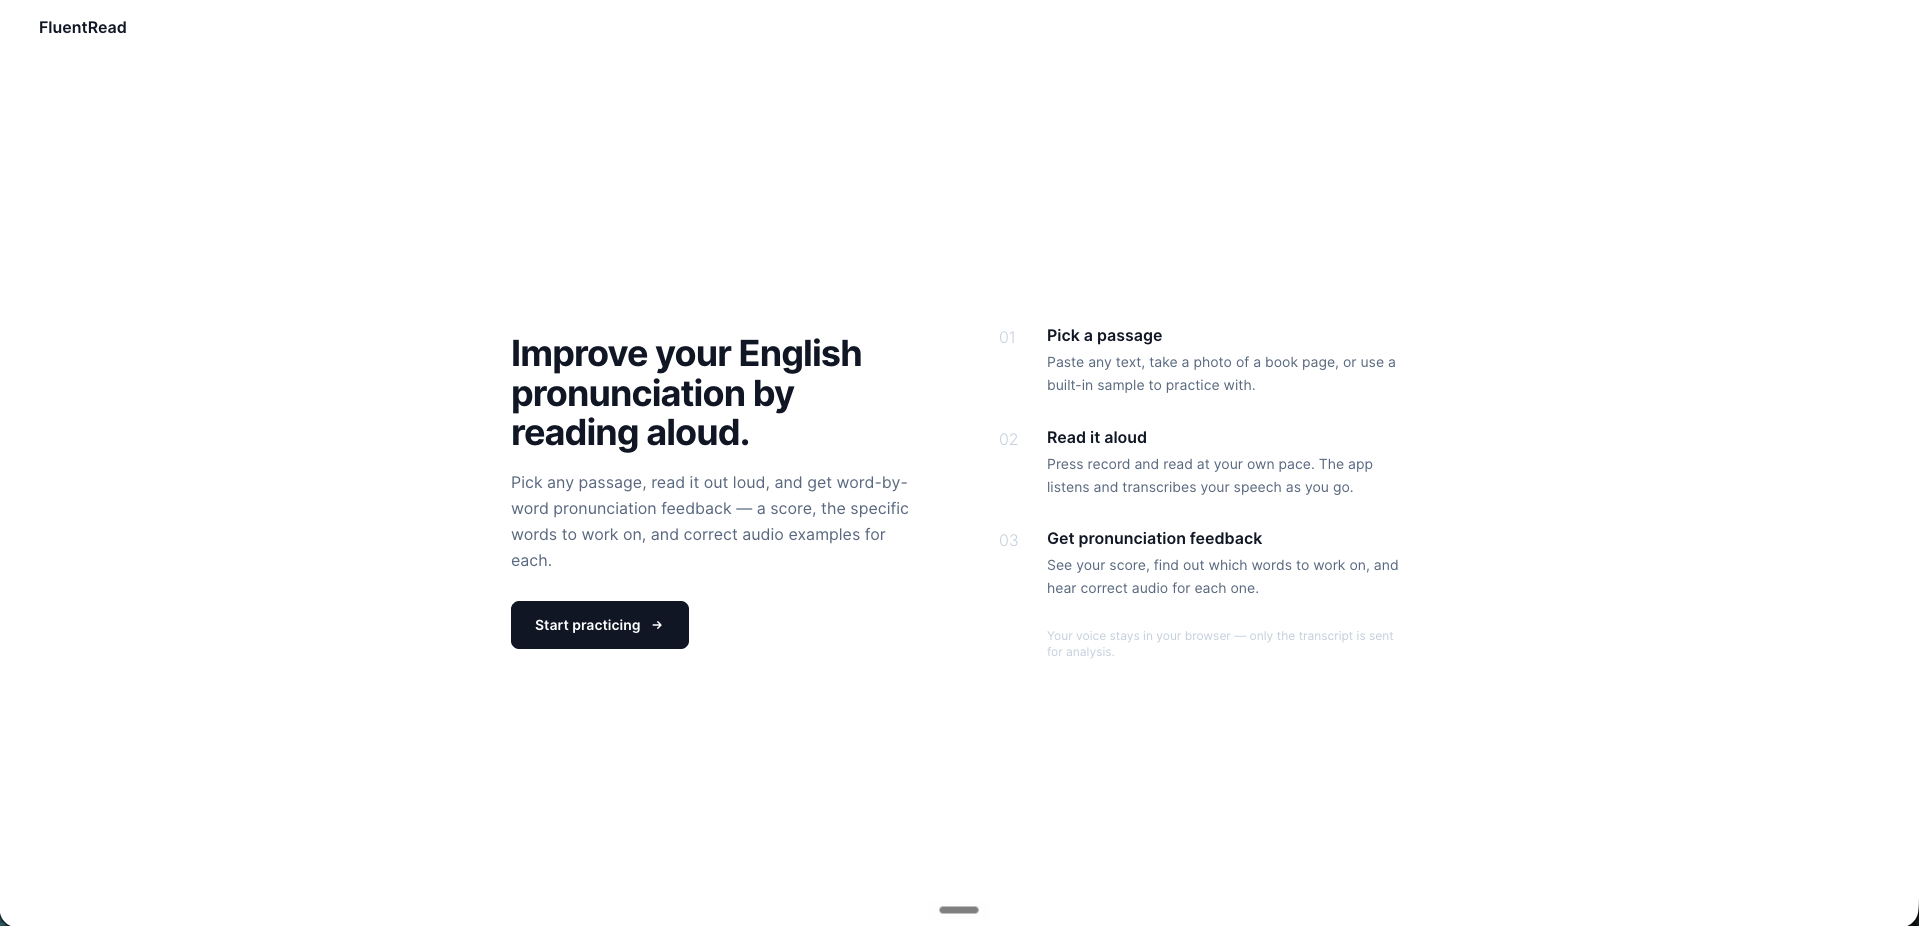
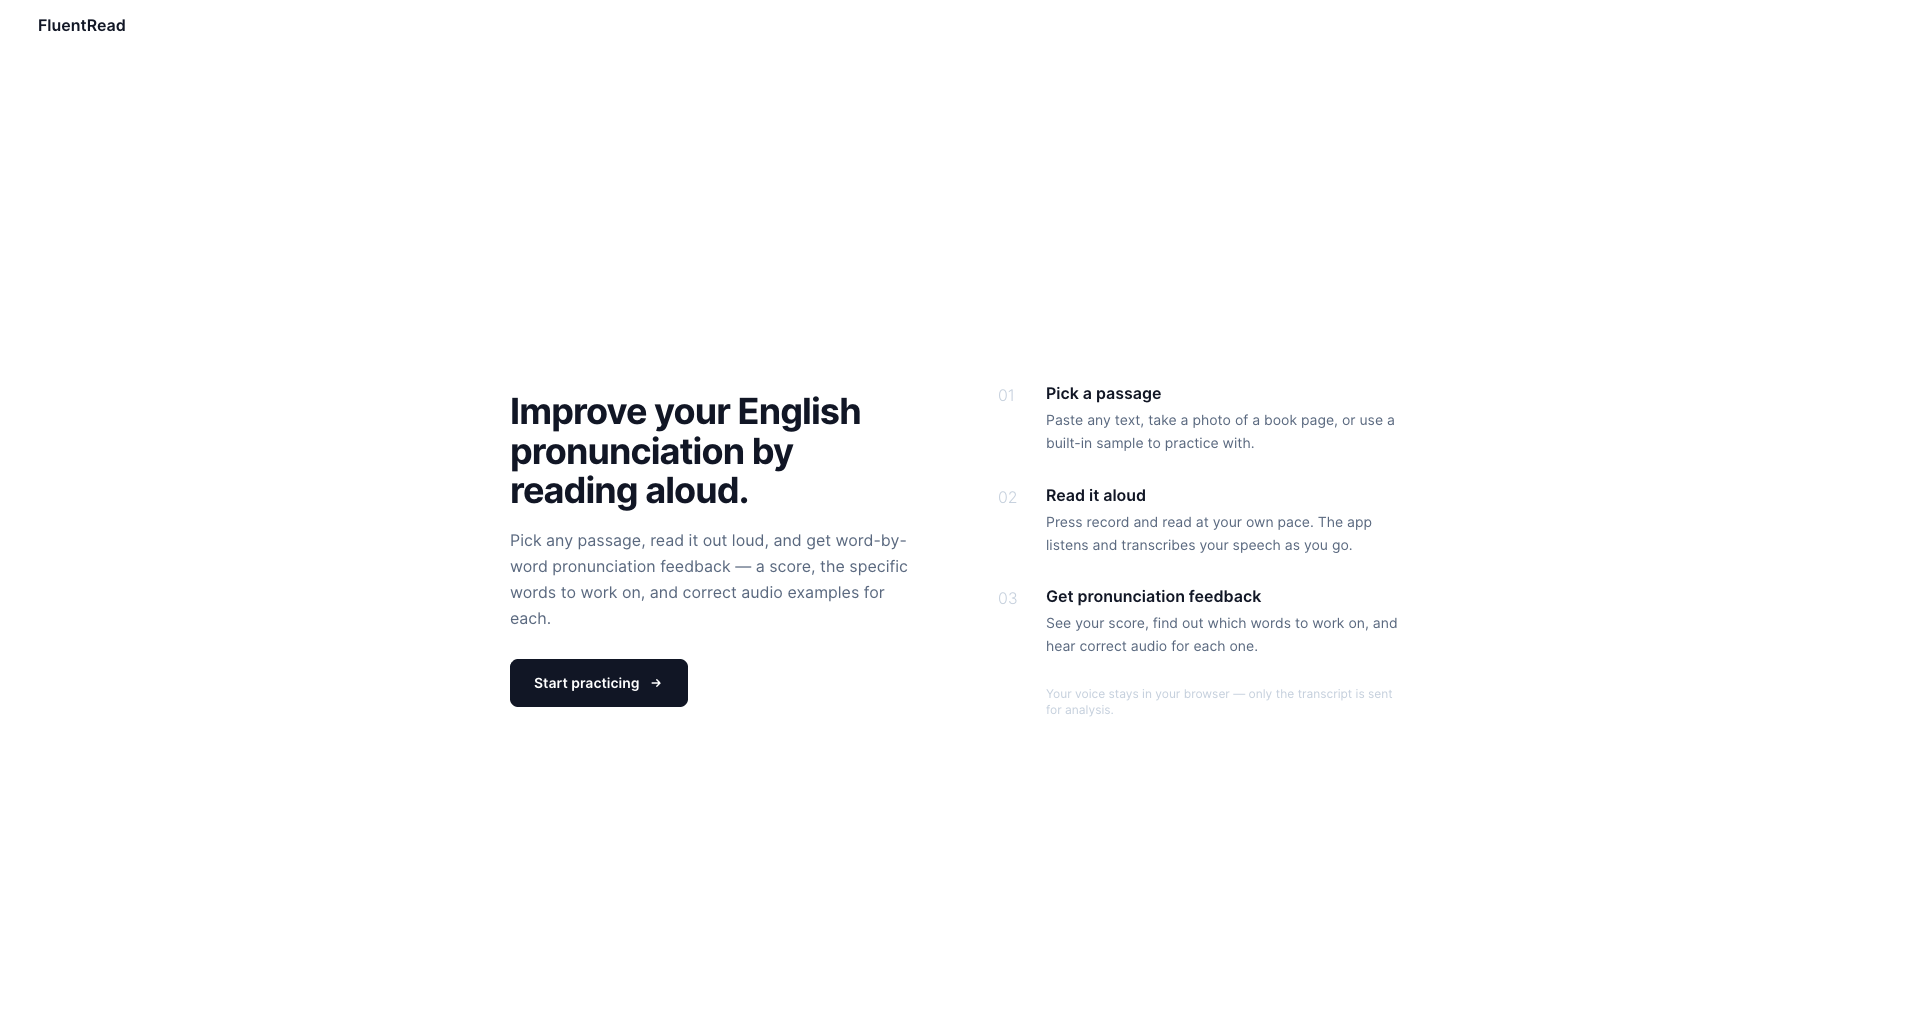
Make project card images uniform with fixed aspect ratio + object-cover
Project screenshots have differing aspect ratios (2.19 / 1.78 / 1.87), so the
previous `min-h-60` + `object-contain` setup letterboxed each image
differently, producing uneven gray margins that varied per card. Switch the
image area to a fixed 16:10 aspect ratio with `object-cover` so every card
renders identically regardless of the source image size, and add a card
border + divider so light screenshots read as framed cards against the white
page. Also refreshes the OV Portfolio and FluentRead screenshots.

diff --git a/components/projects/ProjectCard.tsx b/components/projects/ProjectCard.tsx
@@ -22,13 +22,14 @@ export default function ProjectCard({
   github_link,
 }: ProjectCardProps) {
   return (
-    <article className="flex flex-col gap-2 rounded-xl bg-surface/20 pb-6 md:flex-1">
-      {/* Image */}
-      <div className="relative min-h-60 w-full rounded-xl">
+    <article className="flex flex-col gap-2 overflow-hidden rounded-xl border border-surface bg-surface/20 pb-6 md:flex-1">
+      {/* Fixed aspect ratio + object-cover keeps every card uniform regardless
+          of the source image's dimensions (no letterboxing / uneven margins). */}
+      <div className="relative aspect-[16/10] w-full border-b border-surface bg-surface">
         <Image
           src={image}
           alt={title}
-          className="rounded-lg object-contain"
+          className="object-cover object-top"
           fill
           sizes="(max-width: 768px) 100vw, 50vw"
         />

diff --git a/components/sections/Projects.tsx b/components/sections/Projects.tsx
@@ -1,6 +1,6 @@
 import ProjectCard, { ProjectCardProps } from "../projects/ProjectCard"
 import SectionTitle from "../shared/SectionTitle"
-import portfolioImage from "@/assets/images/OV_Portfolio_picture.png"
+import portfolioImage from "@/assets/images/OV_Portfolio_image.png"
 import onePercentImage from "@/assets/images/OnePercent_image.png"
 import fluentReadImage from "@/assets/images/FluentRead_image.png"
 